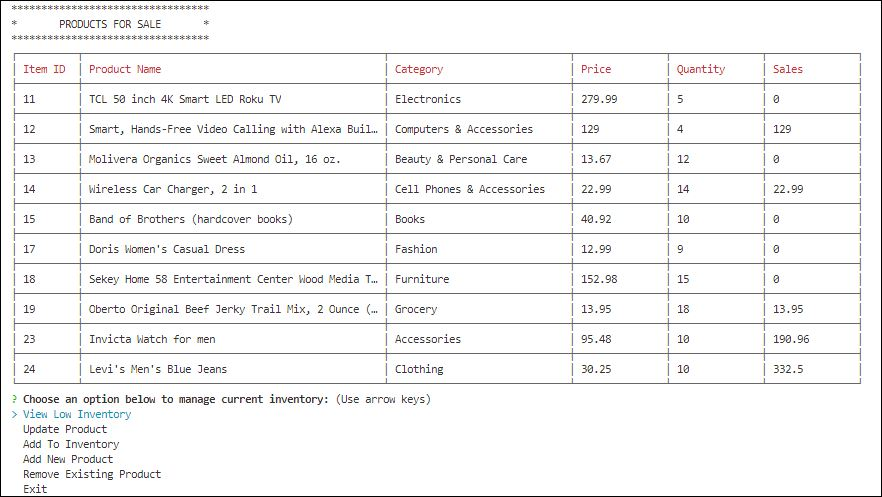
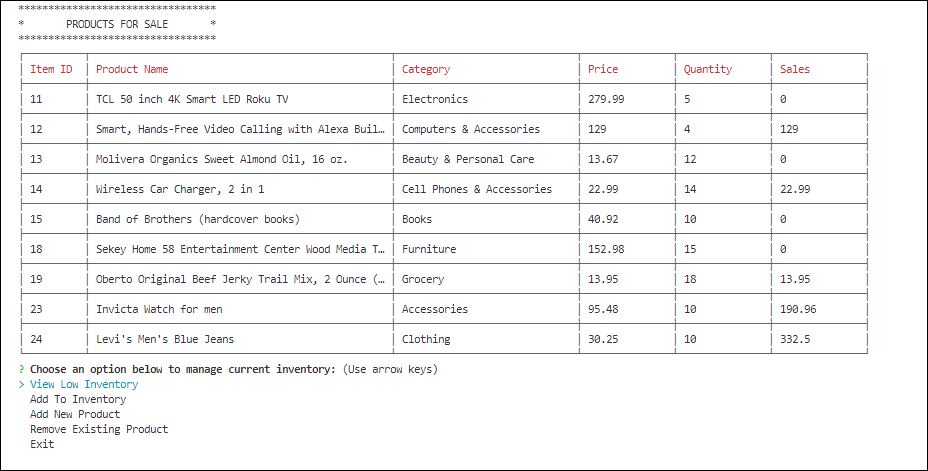
Screenshot for Manager View updated

Changed region(s): [[0.0, 0.0, 0.9796, 1.0], [0.9184, 0.2081, 0.9796, 0.2378]]

diff --git a/bamazonManager.js b/bamazonManager.js
@@ -68,16 +68,12 @@ function displayInventory(){
 			name:"action",
 			type: "list",
 			message: "Choose an option below to manage current inventory:",
-			choices: ["View Low Inventory", "Update Product", "Add To Inventory", "Add New Product", "Remove Existing Product", "Exit"]
+			choices: ["View Low Inventory", "Add To Inventory", "Add New Product", "Remove Existing Product", "Exit"]
 		}]).then(function(answers){
-			switch(answers.action){
-				
+			switch(answers.action){	
 				case 'View Low Inventory':
 					lowRequest();
 					break;
-				case 'Update Product':
-					updateProduct();
-					break;	
 				case 'Add To Inventory':
 					restockRequest();
 					break;
@@ -121,14 +117,11 @@ function lowRequest(){
 			name:"action",
 			type: "list",
 			message: "Choose an option below to manage current inventory:",
-			choices: ["View Products For Sale", "Update Product", "Add To Inventory", "Add New Product", "Remove Existing Product", "Exit"]
+			choices: ["View Products For Sale", "Add To Inventory", "Add New Product", "Remove Existing Product", "Exit"]
 		}]).then(function(answers){
 			switch(answers.action){
 				case 'View Products For Sale':
 					displayInventory();
-					break;
-				case 'Update Product':
-					updateProduct();
 					break;
 				case 'Add To Inventory':
 					restockRequest();

diff --git a/README.md b/README.md
@@ -47,9 +47,11 @@ If a manager selects `View Products for Sale`, the app displays a table with the
 
 ![Results](/screenshots/bamazonManager-view-inventory.JPG)
 
-If a manager selects `View Low Inventory`, then it should list all items with an inventory count lower than five.
+If a manager selects `View Low Inventory`, then the app lists all items with an inventory count equal or lower than five. Then the manager can restock such items.
 
 ![Results](/screenshots/bamazonManager-low-inventory-and-updating.JPG)
+
+After replenishing the items, the app lists the inventory updated.
 
 ![Results](/screenshots/bamazonManager-low-inventory-updated.JPG)
 
